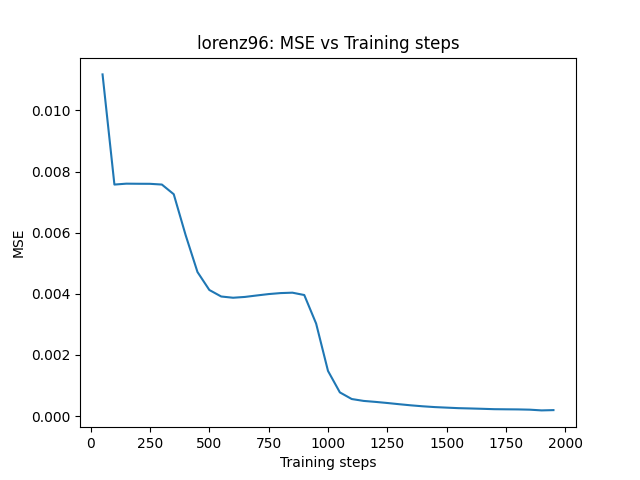
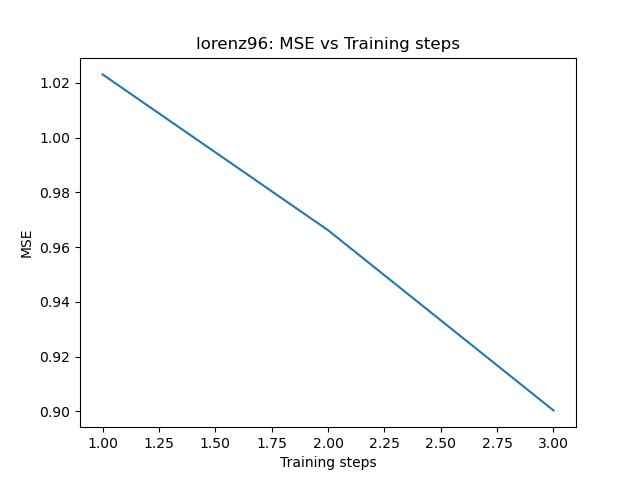
run script on multiple datasets (small)

diff --git a/examples/Lorenz96/lorenz96_task.py b/examples/Lorenz96/lorenz96_task.py
@@ -1,36 +1,38 @@
-from torch import nn, optim
 import torch
+from torch import nn, optim
 import model
 import torch.nn.utils
 import utils
 import argparse
-device = torch.device('cuda' if torch.cuda.is_available() else 'cpu')
+import os
+import matplotlib.pyplot as plt
 
+device = torch.device('cuda' if torch.cuda.is_available() else 'cpu')
 
 parser = argparse.ArgumentParser(description='training parameters')
 
 parser.add_argument('--n_hid', type=int, default=128,
-                    help='hidden size of recurrent net')
-parser.add_argument('--T_in', type=int, default=200,
-                    help='trajectories used to train')
-parser.add_argument('--T_pred', type=int, default=25,
-                    help='trajectory to predict')
-parser.add_argument('--max_steps', type=int, default=2000,
-                    help='max learning steps')
+    help='hidden size of recurrent net')
+parser.add_argument('--T_in', type=int, default=8,
+    help='trajectories used to train')
+parser.add_argument('--T_pred', type=int, default=2,
+    help='trajectory to predict')
+# parser.add_argument('--max_steps', type=int, default=2000,
+#   help='max learning steps')
 parser.add_argument('--log_interval', type=int, default=100,
-                    help='log interval')
+    help='log interval')
 # parser.add_argument('--batch', type=int, default=25,
-#                     help='batch size')
+#   help='batch size')
 # parser.add_argument('--batch_test', type=int, default=25,
-#                     help='size of test set')
+#   help='size of test set')
 parser.add_argument('--lr', type=float, default=2e-2,
-                    help='learning rate')
+    help='learning rate')
 parser.add_argument('--dt',type=float, default=6e-2,
-                    help='step size <dt> of the coRNN')
+    help='step size <dt> of the coRNN')
 parser.add_argument('--gamma',type=float, default=66,
-                    help='y controle parameter <gamma> of the coRNN')
+    help='y controle parameter <gamma> of the coRNN')
 parser.add_argument('--epsilon',type=float, default = 15,
-                    help='z controle parameter <epsilon> of the coRNN')
+    help='z controle parameter <epsilon> of the coRNN')
 
 args = parser.parse_args()
 
@@ -39,25 +41,32 @@ n_out = 5
 
 model = model.coRNN(n_inp, args.n_hid, n_out, args.dt, args.gamma, args.epsilon).to(device)
 
-
 objective = nn.MSELoss()
 optimizer = optim.Adam(model.parameters(), lr=args.lr)
 
 def test():
     model.eval()
     with torch.no_grad():
-        data, label = utils.get_data("test.csv", args.T_in, args.T_pred)
+        data, label = utils.get_data("test/test_1.csv", args.T_in, args.T_pred)
         #label = label.unsqueeze(1)
         out = model(data.to(device))
         loss = objective(out, label.to(device))
-
     return loss.item()
 
+
 def train():
+    train_dir = 'train/'
+    files = os.listdir(train_dir)
+    print(files)
+    files = [f for f in files if os.path.isfile(os.path.join(train_dir, f))]
+    print(files)
+    num_files = len(files)
+
     test_mse = []
     steps = []
-    for i in range(args.max_steps):
-        data, label = utils.get_data("train.csv", args.T_in, args.T_pred)
+    
+    for i in range(1,num_files+1):
+        data, label = utils.get_data(f"train/train_{i}.csv", args.T_in, args.T_pred)
         # print(f"label: {label}")
         # print(f"label size: {label.size()}")
         #label = label.unsqueeze(1)
@@ -69,7 +78,7 @@ def train():
         loss.backward()
         optimizer.step()
 
-        if(i%50==0 and i!=0):
+        if(i%1==0 and i!=0):
             mse_error = test()
             #print('Test MSE: {:.6f}'.format(mse_error))
             steps.append(i)
@@ -77,7 +86,6 @@ def train():
             model.train()
     return steps,test_mse
 
-import matplotlib.pyplot as plt
 
 if __name__ == '__main__':
     steps,test_mse = train()
